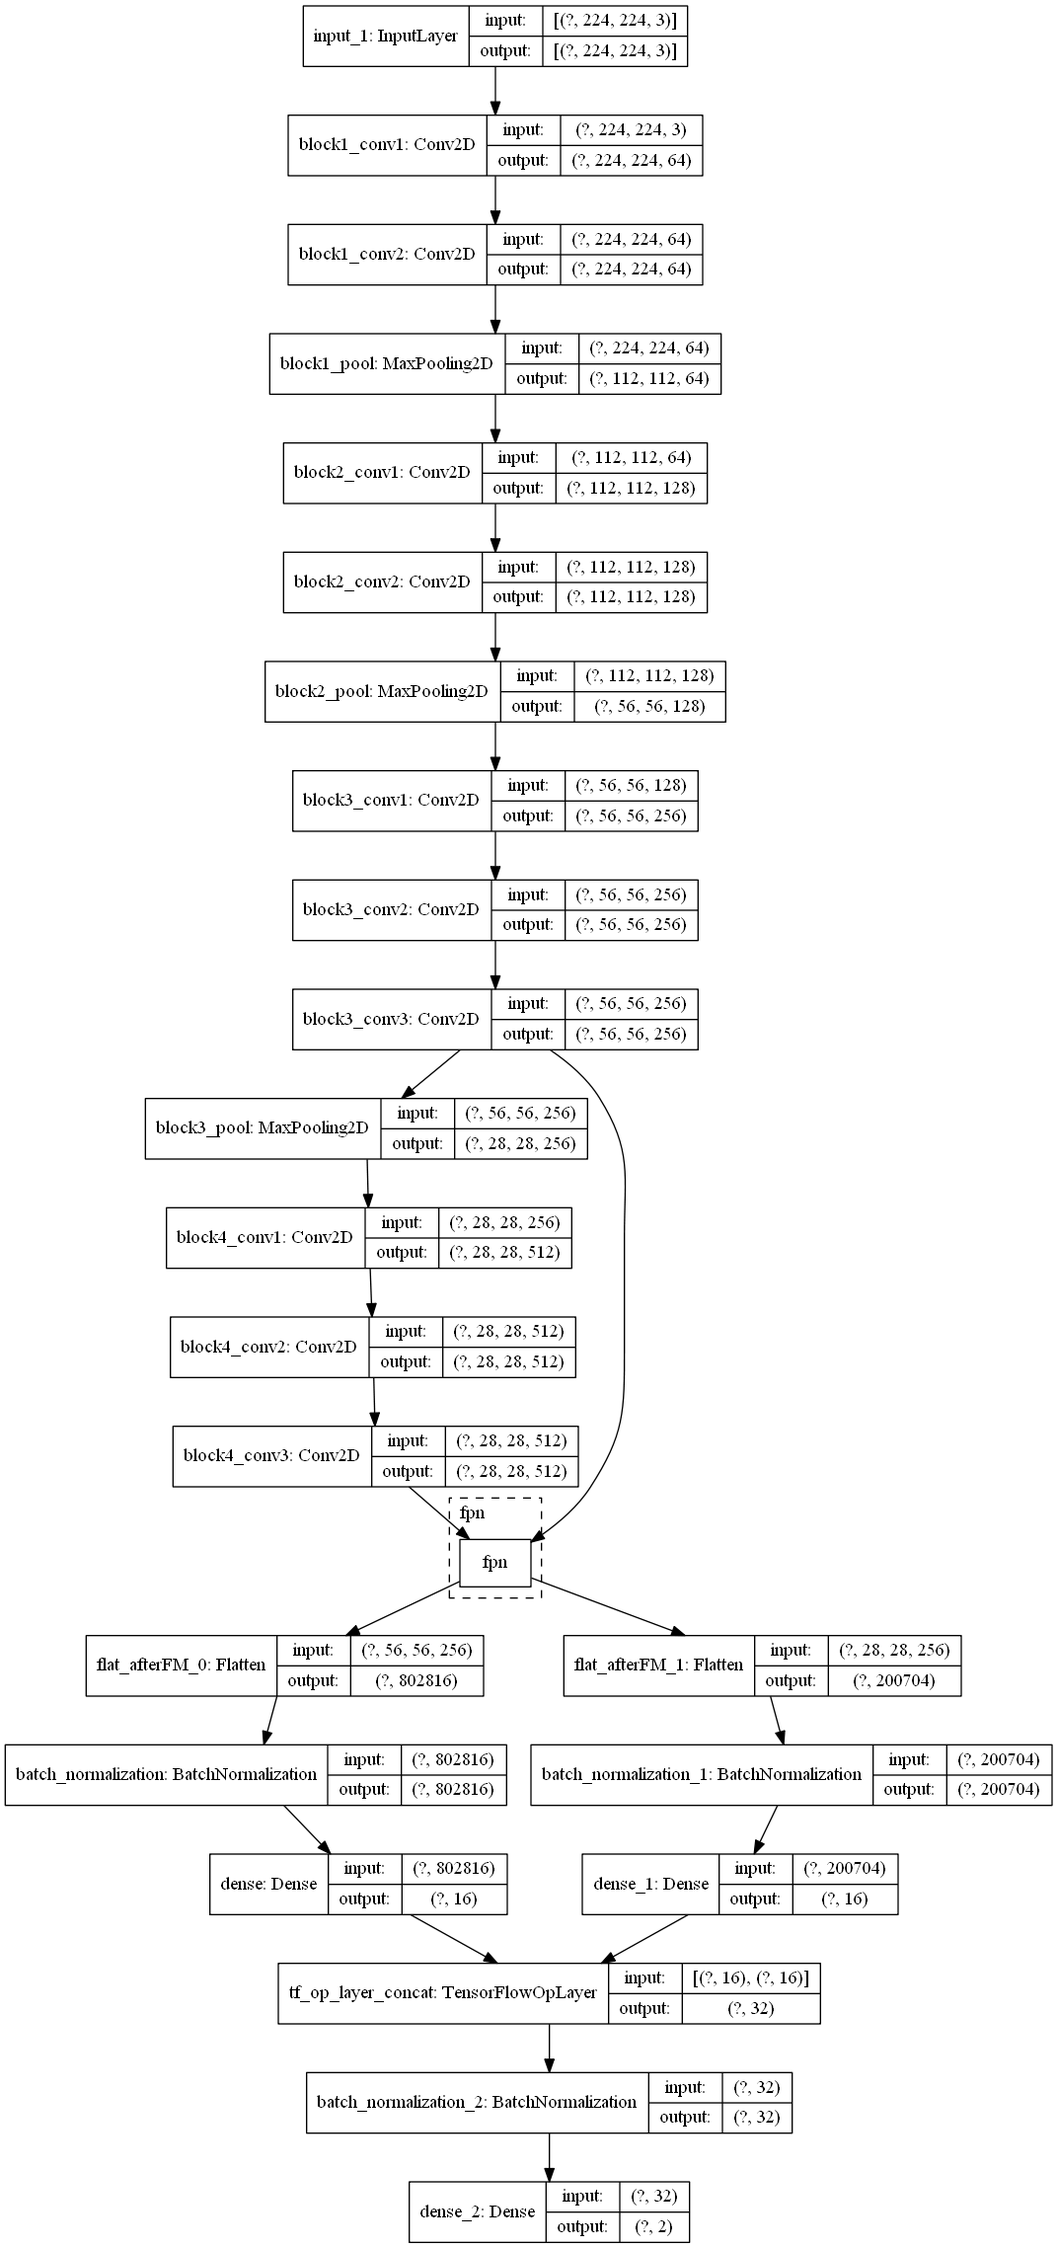
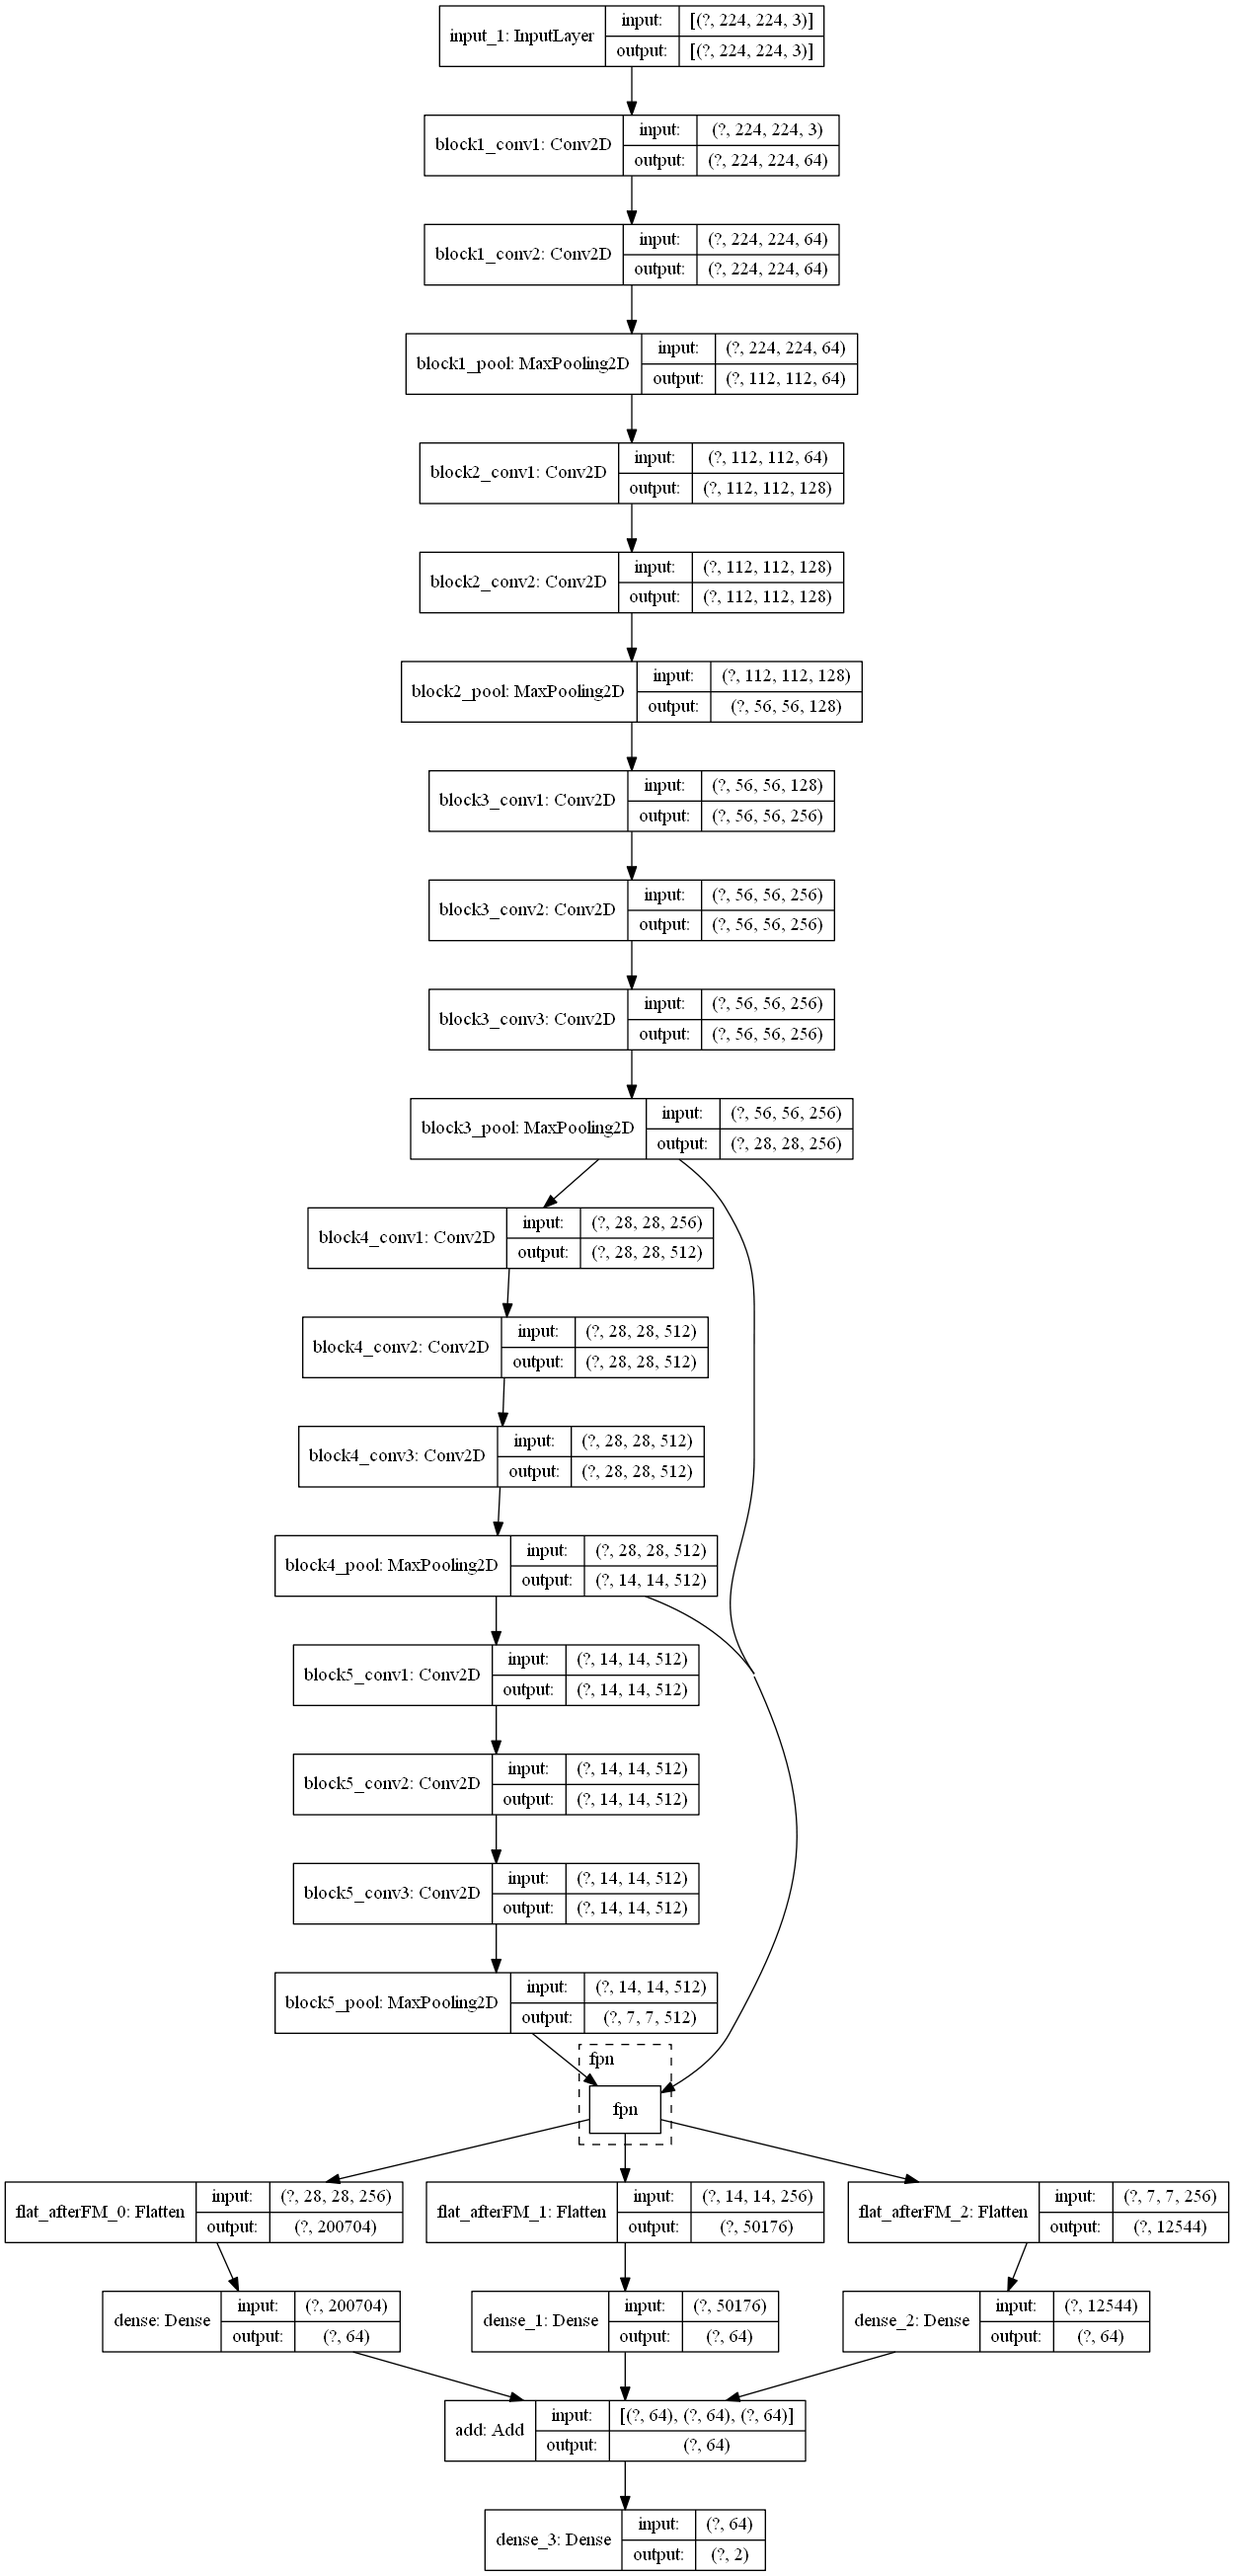
Rollback to initial configuration

diff --git a/FPN.py b/FPN.py
@@ -16,18 +16,29 @@ from utils import Activate_GPU
 class FPN(Model):
     def __init__(self):
         super(FPN, self).__init__()
+        self.conv1 = Conv2D(256, (1, 1), name='fpn_c5p5')
+        self.us1 = UpSampling2D(size=(2, 2), name="fpn_p5upsampled")
         self.conv2 = Conv2D(256, (1, 1), name='fpn_c4p4')
+        self.add1 = Add(name="fpn_p4add")
         self.us2 = UpSampling2D(size=(2, 2), name="fpn_p4upsampled")
         self.conv3 = Conv2D(256, (1, 1), name='fpn_c3p3')
         self.add2 = Add(name="fpn_p3add")
         # Attach 3x3 conv to all P layers to get the final feature maps.
         self.conv6 = Conv2D(256, (3, 3), padding="SAME", name="fpn_p3")
         self.conv7 = Conv2D(256, (3, 3), padding="SAME", name="fpn_p4")
+        self.conv8 = Conv2D(256, (3, 3), padding="SAME", name="fpn_p5")
 
     def call(self, x):
         x3 = x[0]
         x4 = x[1]
-        p4 = self.conv2(x4)
+        x5 = x[2]
+        p5 = self.conv1(x5)
+        p4 = self.add1(
+            [
+                self.us1(p5),
+                self.conv2(x4)
+            ]
+        )
         p3 = self.add2(
             [
                 self.us2(p4),
@@ -36,36 +47,41 @@ class FPN(Model):
         )
         p3 = self.conv6(p3)
         p4 = self.conv7(p4)
-        return [p3, p4]
+        p5 = self.conv8(p5)
+        return [p3, p4, p5]
+
+
+def build_FPN():
+    vgg_model = tf.keras.applications.VGG16(weights='imagenet', include_top=True)
+    fpn = FPN()
+    v16_layer_indices = [10, 14, 18]
+    fpn_input = []
+    for each in v16_layer_indices:
+        fpn_input.append(vgg_model.layers[each].output)
+    fpn_result = fpn(fpn_input)
+    for layers in vgg_model.layers[:18]:
+        layers.trainable = False
+    roi_result = []
+    for i in range(0, len(fpn_result)):
+        x = Flatten(name='flat_afterFM_' + str(i))(fpn_result[i])
+        x = Dense(64, activation='relu')(x)
+        roi_result.append(x)
+    x = Add()(roi_result)
+    predictions = Dense(2, activation="softmax")(x)
+    model_final = Model(inputs=vgg_model.input, outputs=predictions)
+    opt = Adam(lr=0.0001)
+    model_final.compile(
+        loss=tf.keras.losses.CategoricalCrossentropy(),
+        optimizer=opt,
+        metrics=["accuracy"]
+    )
+    return model_final
 
 
 def train(NewModel=False, GenData=False):
+    batch_size = 4
     if NewModel:
-        vgg_model = tf.keras.applications.VGG16(weights='imagenet', include_top=True)
-        fpn = FPN()
-        v16_layer_indices = [9, 13]
-        fpn_input = []
-        for each in v16_layer_indices:
-            fpn_input.append(vgg_model.layers[each].output)
-        fpn_result = fpn(fpn_input)
-        for layers in vgg_model.layers[:17]:
-            layers.trainable = False
-        roi_result = []
-        for i in range(0, len(fpn_result)):
-            x = Flatten(name='flat_afterFM_' + str(i))(fpn_result[i])
-            x = BatchNormalization()(x)
-            x = Dense(16, activation='relu')(x)
-            roi_result.append(x)
-        x = tf.concat(roi_result, axis=1)
-        x = BatchNormalization()(x)
-        predictions = Dense(2, activation="softmax")(x)
-        model_final = Model(inputs=vgg_model.input, outputs=predictions)
-        opt = Adam(lr=0.0001)
-        model_final.compile(
-            loss=tf.keras.losses.CategoricalCrossentropy(),
-            optimizer=opt,
-            metrics=["accuracy"]
-        )
+        model_final = build_FPN()
     else:
         model_final = tf.keras.models.load_model("TrainedModels\\FPN_Prototype.h5py")
     tf.keras.utils.plot_model(
@@ -86,7 +102,7 @@ def train(NewModel=False, GenData=False):
         rotation_range=90
     )
     train_data = train_gen.flow(
-        batch_size=4,
+        batch_size=batch_size,
         x=x_train,
         y=y_train
     )
@@ -96,7 +112,7 @@ def train(NewModel=False, GenData=False):
         rotation_range=90
     )
     test_data = test_gen.flow(
-        batch_size=2,
+        batch_size=batch_size,
         x=x_test,
         y=y_test
     )
@@ -157,12 +173,10 @@ def test_model_od():
             z += 1
             img = cv2.imread(os.path.join(path, i))
             image_out = img.copy()
-
             # Selective Search will be replaced by ROI proposal
             ss.setBaseImage(img)
             ss.switchToSelectiveSearchFast()
             ss_results = ss.process()
-
             for e, result in enumerate(ss_results):
                 if e < 2000:
                     x, y, w, h = result
@@ -170,6 +184,7 @@ def test_model_od():
                     resized = cv2.resize(target_image, (224, 224), interpolation=cv2.INTER_AREA)
                     img = np.expand_dims(resized, axis=0)
                     out = model_loaded.predict(img)
+                    print(out)
                     if out[0][0] > out[0][1]:
                         cv2.rectangle(image_out, (x, y), (x + w, y + h), (0, 255, 0), 1, cv2.LINE_AA)
             plt.figure()
@@ -181,6 +196,6 @@ def test_model_od():
 
 Activate_GPU()
 train()
-# data_generator(balance=0.8)
+# data_generator(balance=0.99)
 # CheckBatch()
 # test_model_od()

diff --git a/RCNN.py b/RCNN.py
@@ -100,12 +100,15 @@ def data_generator(UseRPN=True, balance=0.7):
                             # 对这张图上多个标签坐标进行处理
                             if UseRPN:
                                 x1, y1, x2, y2 = result
-                                iou = get_iou(gt_val, {"x1": x1, "x2": x2, "y1": y1, "y2": y2})
                             else:
                                 x, y, w, h = result
                                 assert w > 0
                                 assert h > 0
-                                iou = get_iou(gt_val, {"x1": x, "x2": x + w, "y1": y, "y2": y + h})
+                                x1 = x
+                                y1 = y
+                                x2 = x + w
+                                y2 = y + h
+                            iou = get_iou(gt_val, {"x1": x1, "x2": x2, "y1": y1, "y2": y2})
                             # 计算候选坐标和这一标签坐标的交并比
                             if counter < 30:
                                 # 选择交并比大于阈值的头30个候选坐标
@@ -321,9 +324,9 @@ def test_model_od(UseRPN=True, x_y_w_h=False, CheckTarget=False):
 
 def CheckBatch():
     x_new, y_new = data_loader()
+    print("Negative Ratio: "+str(list(y_new).count(0)/y_new.shape[0]))
     for i in range(x_new.shape[0]):
         print(y_new[i])
-        plt.figure()
         plt.imshow(x_new[i].reshape((224, 224, 3)))
         plt.show()
 
